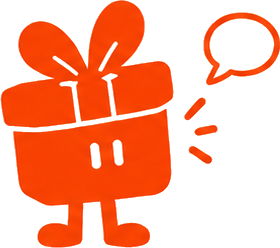
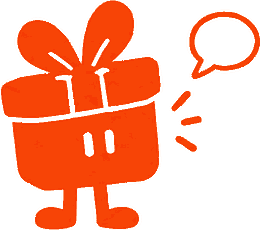
Плавающее меню, туры по 3 шага, примеры в пустом вишлисте, ускорение
- нижнее меню: плавающая плашка с полукруглыми краями, не касается низа экрана
- тур подборки (3 шага) при первом входе в повод; на Главной — поводы, поиск и одно окно про меню
- пустой вишлист: три карточки-примера с пометкой ПРИМЕР вместо голой надписи
- тур снимается при уходе с экрана, мгновенная прокрутка и rAF вместо таймеров
- маскоты и логотип переведены в палитру: 643 КБ -> 88 КБ, экраны рисуются за 1-2 мс

diff --git a/js/screens/coach.js b/js/screens/coach.js
@@ -8,28 +8,32 @@ import { tg } from '../tg.js';
 
 // sel — что подсветить, pad — отступ вокруг, place — где предпочтительно карточка
 const TOURS = {
+  // Первый экран после онбординга — человек уже внутри повода. Три шага, ничего лишнего.
+  ideas: [
+    { sel: '.idea', take: 2, pad: 6, radius: 18, place: 'below', mascot: 'search',
+      title: 'вот идеи',
+      text: 'Список под твой повод: название, во сколько обойдётся и кому зайдёт. Нажми на любую — расскажу подробнее и покажу, где искать.' },
+    { sel: '.chips', take: 3, pad: 4, radius: 22, place: 'below', mascot: 'think',
+      title: 'сузь под человека',
+      text: 'Кому дарим, сколько готов потратить и что он любит. Три фильтра — и остаются только подходящие идеи.' },
+    { sel: '.idea__fav', pad: 8, radius: 999, place: 'below', mascot: 'heart',
+      title: 'сердечко — в вишлист',
+      text: 'Понравилась идея — жми сердечко. Она сохранится, и потом ей можно намекнуть близкому.' }
+  ],
+  // На главной объясняем устройство приложения: поводы, поиск и меню.
   home: [
-    { sel: '.cats .cat', take: 4, pad: 8, radius: 26, place: 'below', mascot: 'search',
-      title: 'повод — главная дверь',
-      text: 'Выбери, по какому случаю ищешь подарок. Три повода открыты сразу, остальные — под замком premium. Внутри повода идеи можно сузить фильтрами: кому, бюджет, интересы.' },
+    { sel: '.cats .cat', take: 4, pad: 8, radius: 26, place: 'below', mascot: 'wave',
+      title: 'поводы',
+      text: 'Главный экран — это поводы. Три открыты сразу, остальные под замком premium. Повод определяет подборку идей.' },
     { sel: '.search', pad: 6, radius: 999, place: 'below', mascot: 'think',
-      title: 'или ищи словом',
-      text: 'Напиши «кофе», «плед» или «фотосессия» — покажу идеи из всех открытых поводов.' },
-    { sel: '[data-tab="home"]', pad: 4, radius: 16, place: 'above', mascot: 'wave',
-      title: 'главная',
-      text: 'Сюда возвращаешься за новой идеей: все поводы и поиск.' },
-    { sel: '[data-tab="wishlist"]', pad: 4, radius: 16, place: 'above', mascot: 'heart',
-      title: 'вишлист',
-      text: 'Твои желания и сохранённые идеи. Отсюда же уходит намёк близкому.' },
-    { sel: '[data-tab="wheel"]', pad: 4, radius: 16, place: 'above', mascot: 'wow',
-      title: 'колесо',
-      text: 'Бесплатный спин раз в день: категория на 24 часа, подборка или скидка на premium.' },
-    { sel: '[data-tab="profile"]', pad: 4, radius: 16, place: 'above', mascot: 'notes',
-      title: 'профиль',
-      text: 'Важные даты и напоминания, твой доступ, награды и настройки.' }
+      title: 'найти идею подарка',
+      text: 'Если знаешь, чего примерно хочешь, — напиши словом: «кофе», «плед», «фотосессия».' },
+    { sel: '#tabbar', pad: 8, radius: 34, place: 'above', mascot: 'notes',
+      title: 'четыре раздела',
+      text: 'Главная — поводы и поиск. Вишлист — твои желания и намёки. Колесо — бесплатный спин раз в день. Профиль — важные даты, доступ и награды.' }
   ],
   wishlist: [
-    { sel: '.rows, .empty', take: 3, pad: 8, radius: 24, place: 'below', maxH: 0.42, mascot: 'heart',
+    { sel: '.rows, .ghosts', take: 1, pad: 8, radius: 24, place: 'below', maxH: 0.42, mascot: 'heart',
       title: 'тут копятся желания',
       text: 'Сохраняй идеи из подборок сердечком или добавляй свои — например «плёночный фотоаппарат».' },
     { sel: '#hintAll', pad: 6, radius: 999, place: 'above', mascot: 'bubble',
@@ -53,6 +57,8 @@ const TOURS = {
 };
 
 let active = false;
+let pending = 0;          // отложенный запуск тура
+let dismiss = null;       // как убрать открытый тур при уходе с экрана
 
 function topSafe() {
   const v = parseFloat(getComputedStyle(document.documentElement).getPropertyValue('--safe-top')) || 0;
@@ -100,13 +106,15 @@ export function startTour(name, onDone) {
 
   let i = 0, cleanupScroll = null;
 
-  function finish() {
+  function finish(silent) {
     cleanupScroll?.();
     root.remove();
     active = false;
-    markTip(name);
+    dismiss = null;
+    if (!silent) markTip(name);              // ушёл с экрана — покажем тур в следующий раз
     onDone?.();
   }
+  dismiss = () => finish(true);
   function next() { if (i + 1 < steps.length) { i++; render(); } else finish(); }
 
   q('.tour__skip').onclick = e => { e.stopPropagation(); track('coach_skipped', { name, step: i }); finish(); };
@@ -181,20 +189,21 @@ export function startTour(name, onDone) {
     tg.haptic('light');
 
     const el = document.querySelector(s.sel);
-    el?.scrollIntoView({ block: 'center', behavior: 'smooth' });
+    el?.scrollIntoView({ block: 'center', behavior: 'auto' });   // мгновенно: плавная прокрутка тут даёт дёрганье
     if (s.take > 1) {
       const last = [...document.querySelectorAll(s.sel)].slice(0, s.take).pop();
-      if (last) last.scrollIntoView({ block: 'nearest', behavior: 'smooth' });
+      if (last) last.scrollIntoView({ block: 'nearest', behavior: 'auto' });
     }
     place();
-    setTimeout(place, 120);
-    setTimeout(place, 420);
+    requestAnimationFrame(place);
   }
 
-  const onMove = () => place();
+  let raf = 0;
+  const onMove = () => { if (raf) return; raf = requestAnimationFrame(() => { raf = 0; place(); }); };
   window.addEventListener('resize', onMove);
   window.addEventListener('scroll', onMove, true);
   cleanupScroll = () => {
+    cancelAnimationFrame(raf);
     window.removeEventListener('resize', onMove);
     window.removeEventListener('scroll', onMove, true);
   };
@@ -205,7 +214,15 @@ export function startTour(name, onDone) {
 // Тур для экрана — только при первом заходе
 export function maybeShowTips(screen) {
   if (!TOURS[screen] || tipSeen(screen)) return;
-  setTimeout(() => startTour(screen), 450);      // даём экрану отрисоваться
+  clearTimeout(pending);
+  pending = setTimeout(() => startTour(screen), 300);   // даём экрану отрисоваться
+}
+
+// Уход с экрана: снимаем и запланированный, и открытый тур — иначе подсветка
+// осталась бы висеть над уже другим экраном.
+export function dismissTour() {
+  clearTimeout(pending); pending = 0;
+  dismiss?.();
 }
 
 export function tourFor(screen) { return TOURS[screen]; }

diff --git a/styles.css b/styles.css
@@ -11,7 +11,7 @@
   --r-lg:22px; --r-md:16px; --r-sm:12px;
   --pad:16px;
   --safe-top:var(--tg-safe-top,0px); --safe-bottom:var(--tg-safe-bottom,0px);
-  --tab-h:64px;
+  --tab-h:62px; --tab-gap:14px;
 }
 *{box-sizing:border-box;-webkit-tap-highlight-color:transparent}
 html,body{margin:0;padding:0;height:100%}
@@ -23,6 +23,7 @@ body{
 }
 img{max-width:100%;display:block}
 button,input,textarea,select{font:inherit;color:inherit}
+button{touch-action:manipulation}
 h1,h2,h3,h4{margin:0}
 .bups{font-family:'Bups','Nunito',sans-serif;font-weight:400;letter-spacing:.02em;line-height:1.15}
 
@@ -36,11 +37,12 @@ h1,h2,h3,h4{margin:0}
 @keyframes blink{0%,100%{opacity:.25;transform:scale(.85)}50%{opacity:1;transform:scale(1)}}
 
 /* ── layout ─────────────────────────────────────────────────────── */
-.app{min-height:100%;padding:calc(var(--safe-top) + 8px) 0 calc(var(--tab-h) + var(--safe-bottom) + 16px)}
+.app{min-height:100%;padding:calc(var(--safe-top) + 8px) 0 calc(var(--tab-h) + var(--tab-gap) + var(--safe-bottom) + 22px)}
 .app--nonav{padding-bottom:calc(var(--safe-bottom) + 24px)}
 .wrap{padding:0 var(--pad)}
-.screen{animation:fade .22s ease}
-@keyframes fade{from{opacity:0;transform:translateY(6px)}to{opacity:1;transform:none}}
+.screen{animation:fade .17s ease-out}
+@keyframes fade{from{opacity:0;transform:translateY(4px)}to{opacity:1;transform:none}}
+@media (prefers-reduced-motion:reduce){*{animation-duration:.01ms!important;transition-duration:.01ms!important}}
 .stack{display:grid;gap:12px}
 .center{text-align:center}
 .muted{color:var(--muted)}
@@ -100,7 +102,8 @@ h1,h2,h3,h4{margin:0}
 .chip--lock{opacity:.6}
 
 /* ── список идей ────────────────────────────────────────────────── */
-.idea{display:flex;gap:12px;padding:14px 0;border-bottom:1px solid var(--line);cursor:pointer}
+.idea{display:flex;gap:12px;padding:14px 0;border-bottom:1px solid var(--line);cursor:pointer;
+  content-visibility:auto;contain-intrinsic-size:auto 104px}
 .idea:last-child{border-bottom:0}
 .idea__num{color:var(--mango);font-weight:800;font-size:13px;min-width:18px;padding-top:2px}
 .idea__body{flex:1;min-width:0}
@@ -110,7 +113,7 @@ h1,h2,h3,h4{margin:0}
 .tag{font-size:11px;font-weight:700;padding:4px 9px;border-radius:999px;background:#F2E6D5;color:var(--coffee)}
 .tag--budget{background:var(--mango);color:#fff}
 .tag--ice{background:var(--ice);color:#173F63}
-.idea__fav{border:0;background:transparent;font-size:19px;cursor:pointer;padding:0 2px;line-height:1}
+.idea__fav{border:0;background:transparent;font-size:19px;cursor:pointer;padding:0 2px;line-height:1;align-self:center}
 
 /* ── пустое состояние ───────────────────────────────────────────── */
 .empty{text-align:center;padding:32px 8px}
@@ -180,15 +183,20 @@ h1,h2,h3,h4{margin:0}
 .sheet__grip{width:40px;height:4px;border-radius:999px;background:#E0CDB6;margin:4px auto 14px}
 
 /* ── тосты ──────────────────────────────────────────────────────── */
-#toast-root{position:fixed;left:0;right:0;bottom:calc(var(--tab-h) + var(--safe-bottom) + 14px);display:grid;justify-items:center;gap:8px;z-index:120;pointer-events:none;padding:0 16px}
+#toast-root{position:fixed;left:0;right:0;bottom:calc(var(--tab-h) + var(--tab-gap) + var(--safe-bottom) + 14px);display:grid;justify-items:center;gap:8px;z-index:120;pointer-events:none;padding:0 16px}
 .toast{background:var(--coffee);color:#FFF3E6;padding:11px 16px;border-radius:999px;font-size:14px;font-weight:700;animation:fade .18s;max-width:100%}
 
-/* ── таббар ─────────────────────────────────────────────────────── */
+/* ── таббар: плавающая плашка с полукруглыми краями ─────────────── */
 .tabbar[hidden]{display:none}
-.tabbar{position:fixed;left:0;right:0;bottom:0;height:calc(var(--tab-h) + var(--safe-bottom));padding-bottom:var(--safe-bottom);background:rgba(251,243,232,.96);backdrop-filter:blur(10px);border-top:1px solid var(--line);display:flex;z-index:60}
-.tab{flex:1;border:0;background:transparent;display:grid;place-items:center;gap:2px;padding:8px 0;cursor:pointer;color:var(--muted);font-size:10px;font-weight:700}
+.tabbar{position:fixed;left:14px;right:14px;bottom:calc(var(--tab-gap) + var(--safe-bottom));
+  height:var(--tab-h);border-radius:calc(var(--tab-h) / 2);display:flex;align-items:center;padding:0 5px;z-index:60;
+  background:rgba(255,252,246,.86);-webkit-backdrop-filter:blur(18px);backdrop-filter:blur(18px);
+  border:1px solid var(--line);box-shadow:0 14px 30px -12px rgba(112,39,32,.45)}
+.tab{flex:1;border:0;background:transparent;display:grid;place-items:center;gap:2px;padding:8px 0 7px;
+  cursor:pointer;color:var(--muted);font-size:10px;font-weight:700;border-radius:22px;touch-action:manipulation}
 .tab span{font-size:19px;line-height:1}
 .tab--on{color:var(--mango)}
+.tab:active{transform:scale(.94)}
 
 /* ── прочее ─────────────────────────────────────────────────────── */
 .paywall-box{background:var(--ice);border-radius:var(--r-lg);padding:18px;text-align:center}
@@ -203,7 +211,7 @@ h1,h2,h3,h4{margin:0}
 
 /* ── обучающий тур: подсветка области + блюр вокруг ─────────────── */
 .tour{position:fixed;inset:0;z-index:140}
-.tour__blur{position:absolute;-webkit-backdrop-filter:blur(6px) saturate(.92);backdrop-filter:blur(6px) saturate(.92)}
+.tour__blur{position:absolute;-webkit-backdrop-filter:blur(5px);backdrop-filter:blur(5px)}
 /* затемнение рисуем огромной тенью вокруг выреза: так у него настоящее скругление */
 .tour__dim{position:absolute;background:transparent;box-shadow:0 0 0 9999px rgba(112,39,32,.52);
   transition:all .32s cubic-bezier(.3,.8,.4,1)}
@@ -273,3 +281,15 @@ h1,h2,h3,h4{margin:0}
 .stv__cta:active{background:#fff}
 .stv__tap{position:absolute;top:64px;bottom:96px;width:38%;z-index:1}
 .stv__tap--l{left:0}.stv__tap--r{right:0;width:62%}
+
+/* ── пустой вишлист: примеры того, как он будет выглядеть ────────── */
+.ghosts{position:relative;margin-top:6px}
+.ghosts__list{opacity:.5;filter:saturate(.7);pointer-events:none;user-select:none}
+.ghost{display:flex;align-items:center;gap:12px;padding:12px 14px;border:1px dashed var(--line);
+  border-radius:16px;background:var(--surface);margin-bottom:8px}
+.ghost__t{flex:1;min-width:0}
+.ghost__name{font-weight:800;font-size:14px}
+.ghost__sub{font-size:12px;color:var(--muted)}
+.ghost__tag{font-size:9px;font-weight:800;letter-spacing:.06em;color:var(--muted);
+  border:1px solid var(--line);border-radius:999px;padding:3px 7px}
+.ghosts__cap{text-align:center;margin-top:12px}

diff --git a/js/screens/wishlist.js b/js/screens/wishlist.js
@@ -2,10 +2,39 @@
 import { state, save, track, createWishlist, removeItem, wishlistLimit, isPremium } from '../store.js';
 import { deepLink } from '../config.js';
 import { esc, mascot, sheet, toast, confirmSheet, plural } from '../ui.js';
+import { IDEAS } from '../data/ideas.js';
+import { cover } from './ideas.js';
 import { tg } from '../tg.js';
 import { go, back } from '../app.js';
 import { maybeShowTips } from './coach.js';
 import { openHint } from './hint.js';
+
+
+// Пустой вишлист показываем не голой надписью, а примерами: человек сразу видит,
+// как список будет выглядеть, когда в нём появятся его желания.
+const SAMPLE_IDS = ['birthday-7', 'anniv-6', 'birthday-6'];
+function ghostList() {
+  const samples = SAMPLE_IDS.map(id => IDEAS.find(i => i.id === id)).filter(Boolean);
+  return `
+    <div class="ghosts">
+      <div class="ghosts__list">
+        ${samples.map(i => `
+          <div class="ghost">
+            ${cover(i, 'cover--thumb')}
+            <div class="ghost__t">
+              <div class="ghost__name">${esc(i.title)}</div>
+              <div class="ghost__sub">${esc(i.desc)}</div>
+            </div>
+            <span class="ghost__tag">ПРИМЕР</span>
+          </div>`).join('')}
+      </div>
+      <div class="ghosts__cap">
+        ${mascot('sleep', 'mascot--sm')}
+        <h3 class="h2" style="margin-top:6px">Пока тут пусто</h3>
+        <p class="muted small">Вот так список будет выглядеть, когда сохранишь первые идеи</p>
+      </div>
+    </div>`;
+}
 
 export function render() {
   const wls = state.wishlists;
@@ -27,7 +56,9 @@ export function render() {
             <span class="row__v">${w.items.length}</span>
             <span class="row__chev">›</span>
           </button>`).join('')}</div>`
-        : `<div class="empty">${mascot('sleep', 'mascot--lg')}<h3 class="h2">Тут пока пусто</h3><p class="muted small">Сохрани первую идею из подборки</p></div>`}
+        : ghostList()}
+        <div class="spacer"></div>
+        <button class="btn" id="find">Найти первую идею</button>
         <div class="spacer"></div>
         <button class="btn btn--soft" id="new">Новый вишлист</button>
         <p class="small muted center" style="margin-top:8px">${isPremium() ? 'Premium: безлимит вишлистов' : `Осталось слотов: ${Math.max(0, wishlistLimit() - wls.length)} из ${wishlistLimit()}`}</p>
@@ -36,6 +67,7 @@ export function render() {
       maybeShowTips('wishlist');
       app.querySelectorAll('[data-wl]').forEach(b => b.onclick = () => go('wl', { id: b.dataset.wl }));
       app.querySelector('#new').onclick = newWishlist;
+      app.querySelector('#find')?.addEventListener('click', () => go('home', {}, true));
     }
   };
 }
@@ -79,7 +111,7 @@ export function renderOne({ id, tab }) {
             <button class="idea__fav" data-hint="${it.id}">💌</button>
             <button class="idea__fav" data-del="${it.id}">✕</button>
           </div>`).join('')}</div>`
-        : `<div class="empty">${mascot('sleep', 'mascot--md')}<h3 class="h2">Пока пусто</h3><p class="muted small">Добавь своё желание или сохрани идею из подборки</p></div>`}
+        : ghostList()}
 
         <div class="spacer"></div>
         <button class="btn" id="hintAll">💌 Намекнуть другу</button>

diff --git a/js/data/ideas.js b/js/data/ideas.js
@@ -236,7 +236,8 @@ const ICON_WORDS = [
   ['фотоаппарат|фотосесс|фотограф|фотокниг|фотоальбом|портрет|снимк', '📷'],
   ['звезд|неб|космос', '⭐'], ['газет|книг|планер|ежедневник|альбом', '📖'],
   ['видео|проектор|кино|сериал', '🎬'], ['кофе|кофема|зерн|турк|чай|термокруж|кружк', '☕'],
-  ['вин|бокал|дегустац|шампан', '🍷'], ['плед|тапк|пижам|постельн|наволоч', '🛋'],
+  ['винил|пластинк|плейлист|подкаст|музык', '🎵'],
+  ['вино|винн|бокал|дегустац|шампан|глинтвейн', '🍷'], ['плед|тапк|пижам|постельн|наволоч', '🛋'],
   ['цвет|букет|растен|суккулент|дерев', '🌿'], ['свеч|диффузор|аромат|парфюм', '🕯'],
   ['массаж|спа|маникюр|уход|космет|бьюти|щётк', '💆'], ['зал|спорт|йог|скакал|коврик|картинг|тир|верёвоч|аквапарк|каток|баня|велос|самокат', '🏃'],
   ['путешеств|тур|отел|поездк|кораб|аэротруб|симулятор|полёт', '✈'],

diff --git a/js/screens/ideas.js b/js/screens/ideas.js
@@ -6,6 +6,7 @@ import { esc, mascot, sheet, toast, closeSheet } from '../ui.js';
 import { tg } from '../tg.js';
 import { go, back } from '../app.js';
 import { openHint } from './hint.js';
+import { maybeShowTips } from './coach.js';
 
 let f = { rec: null, budget: null, interest: null };
 let query = '';
@@ -96,7 +97,7 @@ export function render({ id }) {
       ${chipRow(RECIPIENTS, f.rec, 'rec', !premium)}
       ${chipRow(BUDGETS, f.budget, 'budget', !premium)}
       ${chipRow(INTERESTS, f.interest, 'interest', !premium)}
-      <div class="wrap">
+      <div class="wrap" id="ideaList">
         ${list.length ? visible.map((i, n) => ideaRow(i, n + 1)).join('') : emptyBlock()}
         ${list.length > shown ? '<button class="btn btn--soft" id="more" style="margin-top:14px">Показать ещё</button>' : ''}
         ${(!premium && list.length) ? `
@@ -150,6 +151,7 @@ export function renderSearch() {
 }
 
 function mountList(app, catId, premium) {
+  maybeShowTips('ideas');
   app.querySelectorAll('[data-f]').forEach(b => {
     b.onclick = () => {
       if (!premium) { track('locked_filter_clicked', {}); tg.haptic('warning'); return go('paywall', { from: 'filters' }); }

diff --git a/js/ui.js b/js/ui.js
@@ -3,7 +3,8 @@ import { tg } from './tg.js';
 
 export const $ = (sel, root = document) => root.querySelector(sel);
 export const esc = s => String(s ?? '').replace(/[&<>"']/g, c => ({ '&': '&amp;', '<': '&lt;', '>': '&gt;', '"': '&quot;', "'": '&#39;' }[c]));
-export const mascot = (name, cls = 'mascot--md') => `<img class="mascot ${cls}" src="assets/mascots/${name}.png" alt="" loading="lazy">`;
+export const mascot = (name, cls = 'mascot--md') =>
+  `<img class="mascot ${cls}" src="assets/mascots/${name}.png" alt="" loading="lazy" decoding="async">`;
 
 export function toast(text) {
   const root = $('#toast-root');

diff --git a/index.html b/index.html
@@ -6,7 +6,7 @@
 <meta name="theme-color" content="#FBF3E8">
 <title>Та-дам — и подарок готов</title>
 <link rel="icon" href="assets/img/logo-icon.png">
-<link rel="stylesheet" href="styles.css?v=7">
+<link rel="stylesheet" href="styles.css?v=8">
 <script src="https://telegram.org/js/telegram-web-app.js"></script>
 </head>
 <body>
@@ -18,6 +18,6 @@
   <nav id="tabbar" class="tabbar" hidden></nav>
   <div id="sheet-root"></div>
   <div id="toast-root"></div>
-  <script type="module" src="js/app.js?v=7"></script>
+  <script type="module" src="js/app.js?v=8"></script>
 </body>
 </html>

diff --git a/js/app.js b/js/app.js
@@ -11,6 +11,7 @@ import * as Wheel from './screens/wheel.js';
 import * as Profile from './screens/profile.js';
 import * as Dates from './screens/dates.js';
 import * as Extra from './screens/extra.js';
+import { dismissTour } from './screens/coach.js';
 
 const ROUTES = {
   onboarding: Onboarding.render,
@@ -65,6 +66,7 @@ export function back() {
 }
 
 function paint(fn, params) {
+  dismissTour();
   const app = $('#app');
   const view = fn(params) || {};
   app.innerHTML = `<div class="screen">${view.html || ''}</div>`;
